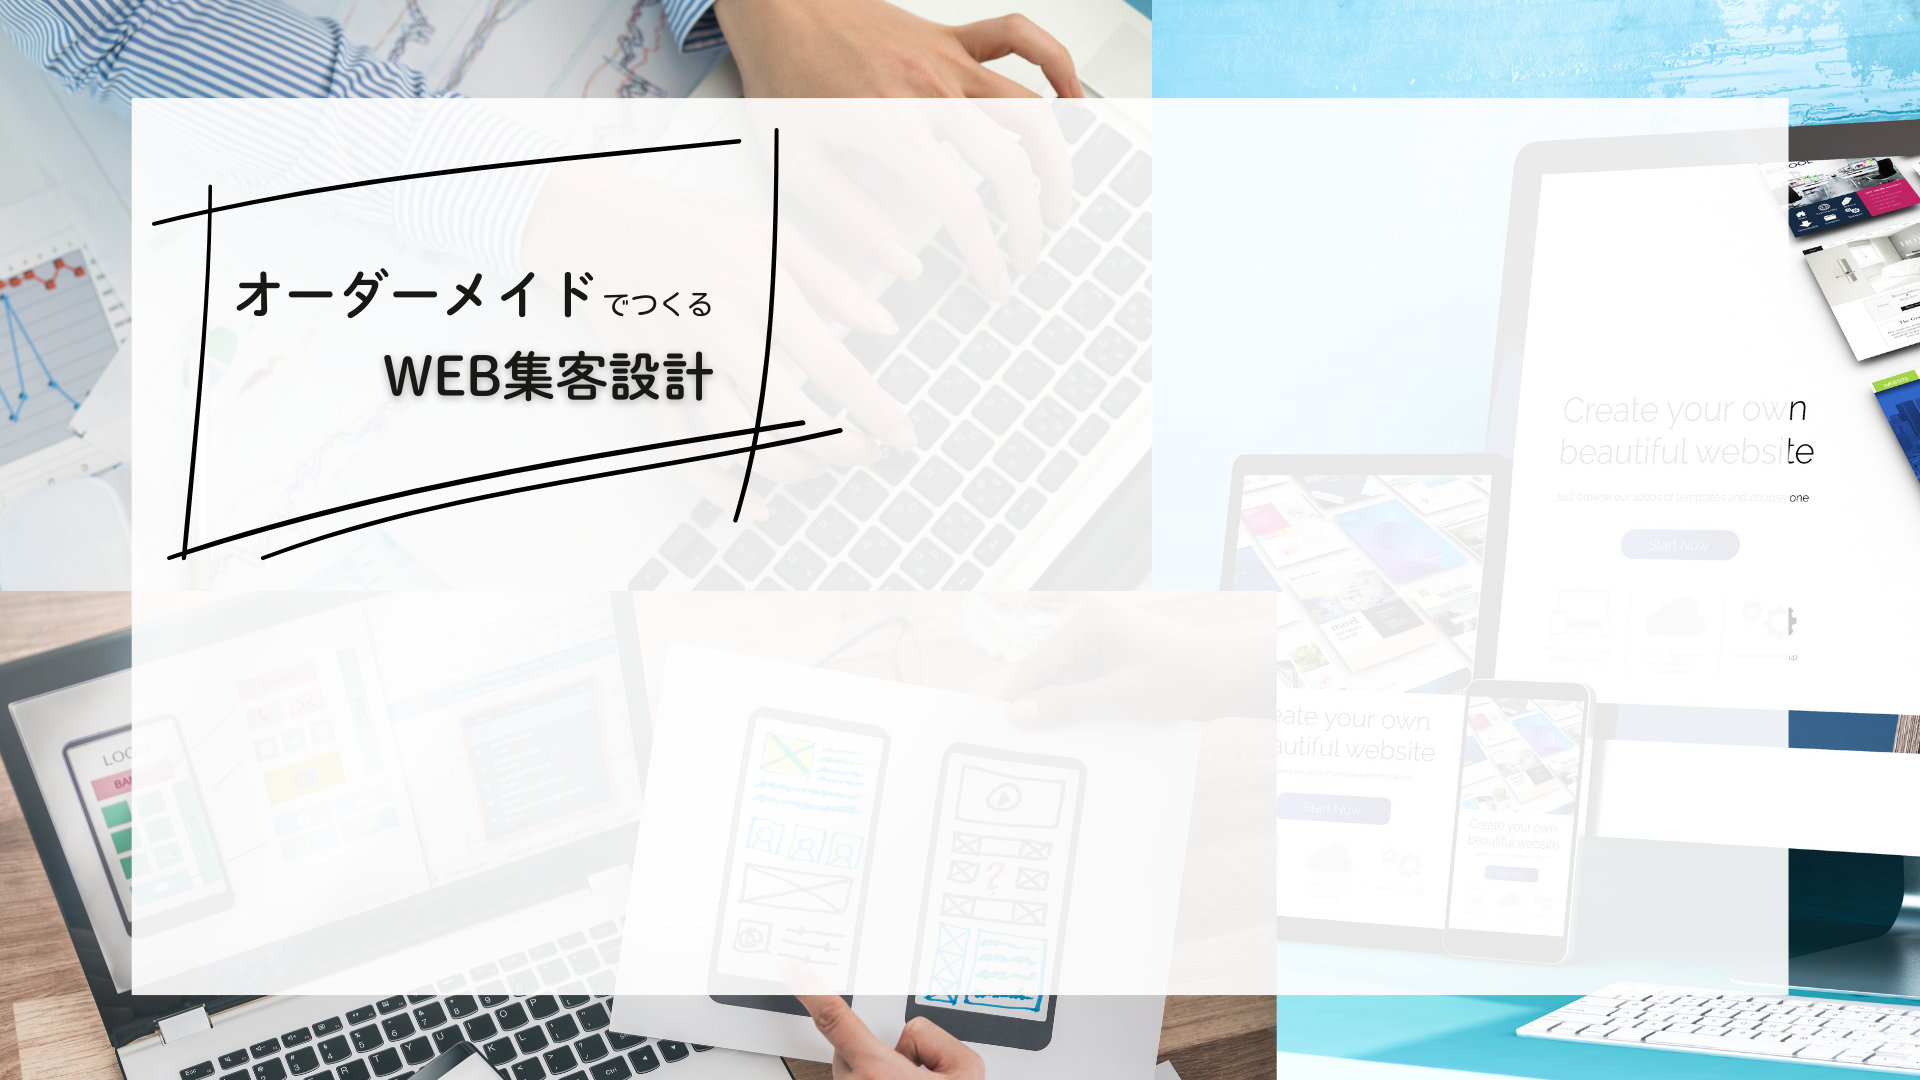
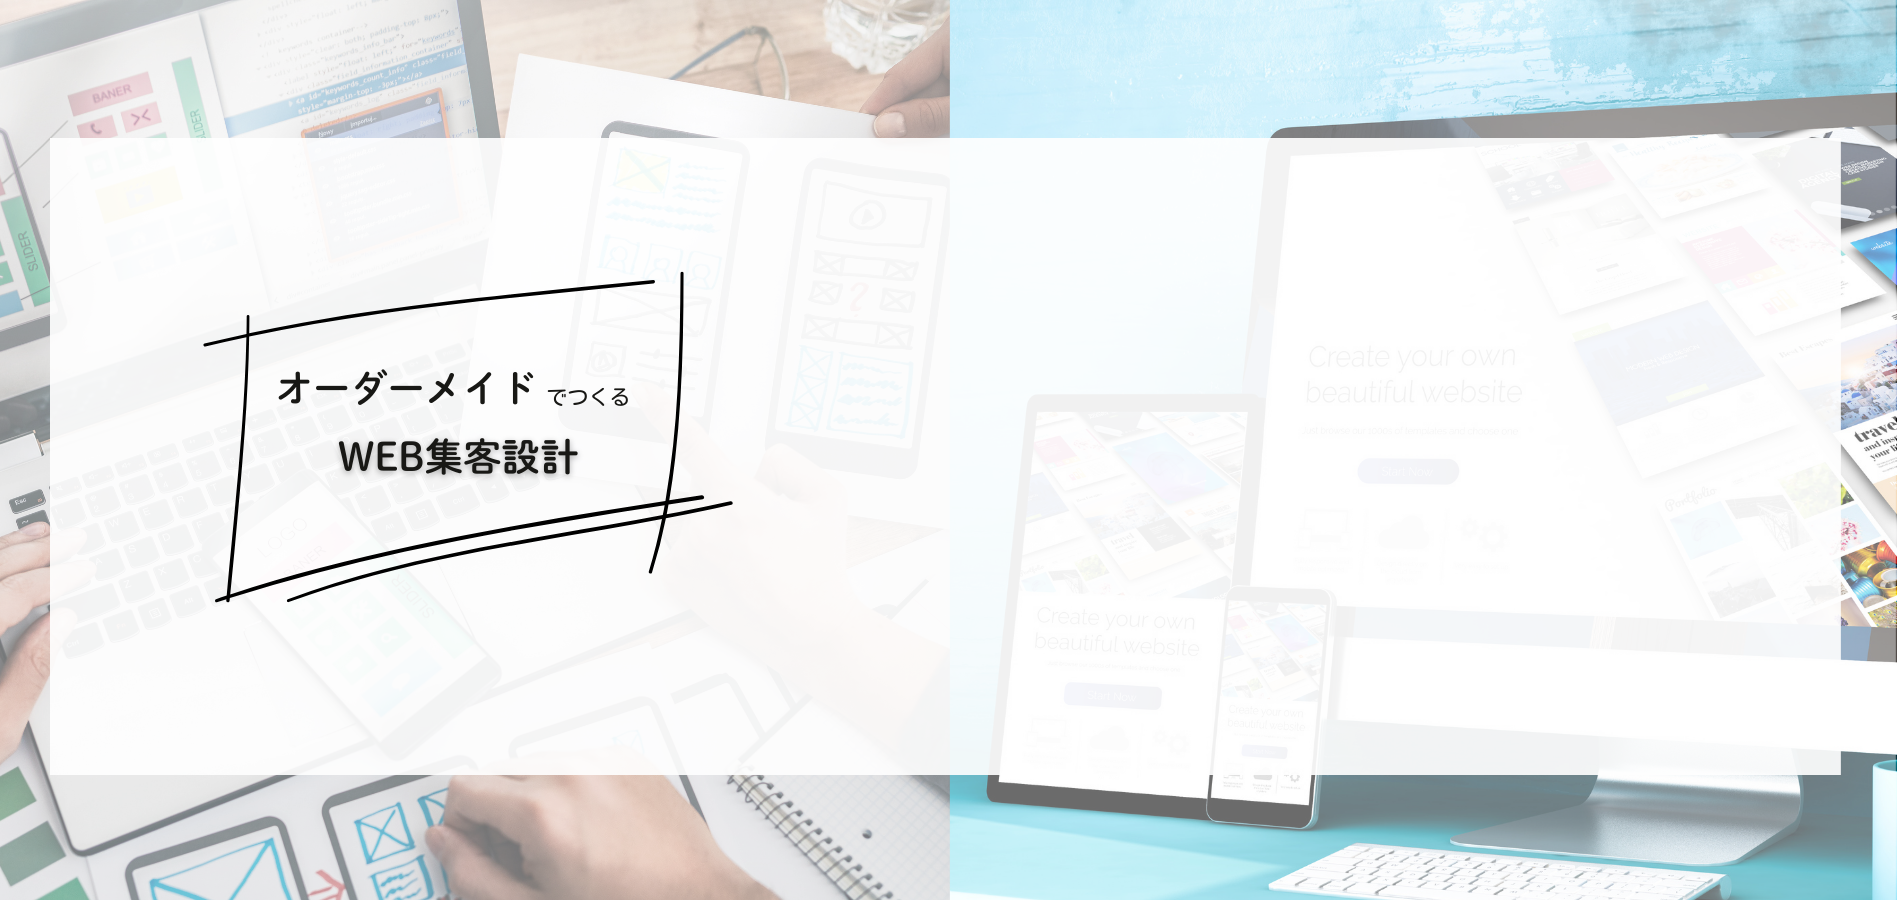
65

diff --git a/css/price.css b/css/price.css
@@ -1,10 +1,9 @@
 .hero2{
   margin-top: -90px;
-    width: 100%;
+    width: auto;
     height: 100vh;
-    background-image:url(../images/back/price2.png);
+    background-image:url(../images/back/price.png);
     background-size: cover;
-    background-repeat: no-repeat;
     text-align: right;
     padding-right: 20px;
 }
@@ -13,7 +12,7 @@
 
 .price-contener{
   padding-right: 10%;
-  transform: translateY(300px);
+  transform: translateY(200px);
   justify-content: center;
 }
 
